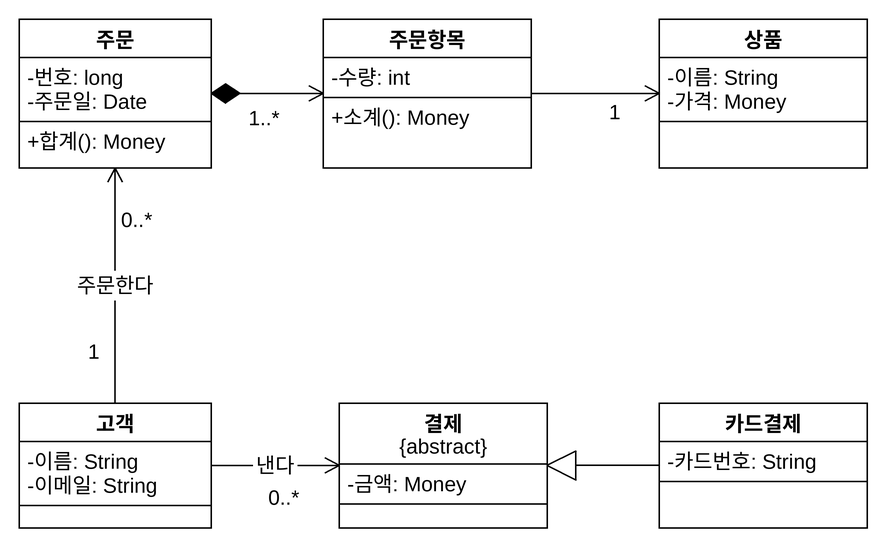
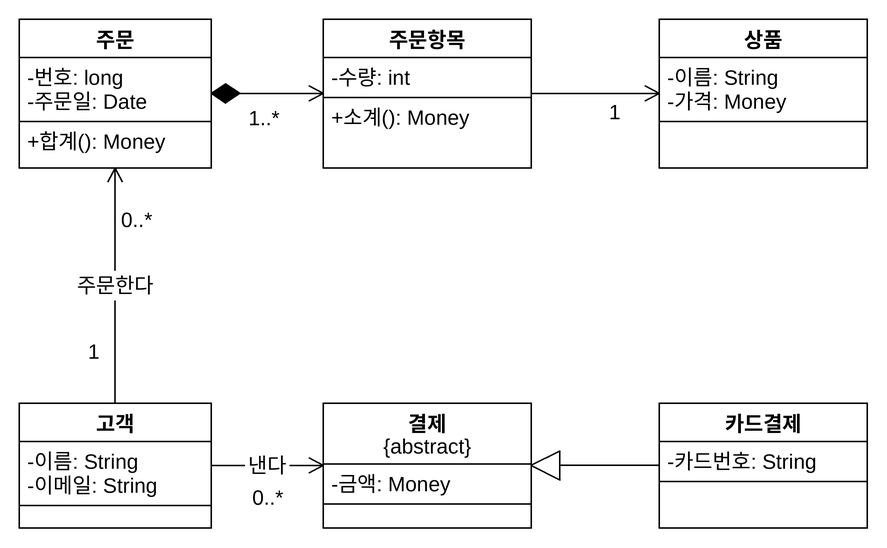
docs: README 소개를 AI가 놓는 배치 기준으로 고치고, 고친 배치의 열을 맞추기
소개의 '손으로 놓다 보면'은 AI가 자리를 정한다는 앞 문장과 어긋나 '어시스턴트가 자리를 직접 잡다 보면'으로 고치고, 불합격 조건에 상자끼리 겹침을 넣는다. 고친 배치는 결제를 주문항목과 같은 열(190)에 둔다. 테스트는 첫 배치에서 가려지는 선의 꺾는 점이 끝 상자–가린 상자 토막을 가장 길게 만들고 첫 점이 가린 상자 앞 변보다 앞에 있는지 보며, 결과와 입력을 짝지을 때 길이가 다르면 실패한다.

diff --git a/tests/test_server.py b/tests/test_server.py
@@ -1188,7 +1188,7 @@ def test_readme_examples_draw_pass_and_match_their_pictures(tmp_path, readme_ima
     examples = readme_images.readme_examples()  # 그림 스크립트는 영어 부분의 첫 ## 제목 뒤에서만 읽는다 — 그 밖에 둔 예시는 그리지 못한다
     assert sorted(b["file_name"] for _, b in examples) == everywhere == sorted(EXAMPLES)
     results = run(server.mcp, *[(tool, {**b, "out_dir": str(tmp_path)}) for tool, b in examples])[2]
-    for (tool, b), r in zip(examples, results):
+    for (tool, b), r in zip(examples, results, strict=True):
         assert tool == EXAMPLES[b["file_name"]], b["file_name"]
         assert not r.is_error and text(r).startswith("합격"), text(r)
         saved = readme_images.IMAGES / f"{b['file_name']}.cysuml.json"
@@ -1200,14 +1200,22 @@ def test_readme_examples_draw_pass_and_match_their_pictures(tmp_path, readme_ima
 def test_readme_before_after_pictures_fail_and_pass_as_the_readme_says(tmp_path, readme_images):
     korean = README.read_text(encoding="utf-8").split("\n## 한국어\n", 1)[1]
     calls = [(tool, {**args, "out_dir": str(tmp_path)}) for tool, args in readme_images.before_after()]
-    for (name, passes), (_, args), r in zip(readme_images.BEFORE_AFTER.items(), calls, run(server.mcp, *calls)[2]):
+    for (name, passes), (_, args), r in zip(readme_images.BEFORE_AFTER.items(), calls, run(server.mcp, *calls)[2], strict=True):
         assert not r.is_error and text(r).startswith("합격") == passes, (name, text(r))
         if not passes:
             assert text(r).startswith("불합격 — 1건"), (name, text(r))  # README가 "이 한 건으로"·"on exactly this"라고 적었다
             crossing = [re.sub(r"^\d+\. ", "", line) for line in text(r).splitlines() if "선이 상자를 지난다" in line]
             assert crossing, (name, text(r))
+            # 가려지는 선의 꺾는 점이 관계 이름 자리를 정한다(스크립트 머리말) — 이름은 가장 긴 토막 가운데에 앉으므로, 끝 상자에서 첫
+            # 꺾는 점(가린 상자의 앞 변)까지가 가장 길어야 한다. 이 선은 가로선이라 x만 견준다
             hidden = args["relations"][int(re.search(r"relations\[(\d+)\]", crossing[0]).group(1))]
-            assert hidden.get("via"), f"{name}: 가려지는 선의 꺾는 점이 관계 이름 자리를 정한다 — 지우면 이름이 가린 상자에 붙는다(스크립트 머리말)"
+            boxes = {c["name"]: c for c in args["classes"]}
+            start, end = boxes[hidden["from"]], boxes[hidden["to"]]
+            xs = [start["left"] + start["width"], *(x for x, _ in hidden.get("via", [])), end["left"]]
+            pieces = [b - a for a, b in zip(xs, xs[1:])]
+            assert len(pieces) > 1 and pieces[0] > max(pieces[1:]), f"{name}: 이름이 앉을 끝 상자–가린 상자 토막이 가장 길지 않다: {pieces}"
+            cover = boxes[re.search(r"상자 (\S+)\(", crossing[0]).group(1)]
+            assert xs[1] <= cover["left"], f"{name}: 첫 꺾는 점이 가린 상자 {cover['name']}의 앞 변보다 뒤에 있어 이름이 그 밑에 앉는다"
             if name.endswith("-ko"):  # 한국어 절은 이 항목을 그대로 옮겨 보여 준다
                 assert f"> {crossing[0]}" in korean, f"README 한국어 절이 옮긴 검사 결과가 지금 결과와 다르다: {crossing[0]}"
 

diff --git a/README.md b/README.md
@@ -6,9 +6,9 @@ An MCP server for document-ready UML diagrams: the AI lays them out, cysUML draw
 
 Auto-layout tools keep boxes apart, but they decide where everything goes: it is hard to get the arrangement you
 want, one more class can reshuffle the whole picture, and labels can still crowd the lines. cysUML takes the other way
-round: your AI assistant decides where every box goes, cysUML draws exactly that and checks the drawing. Placing boxes
-by hand can go wrong, so if a line runs through a box or a label, or labels overlap, the check fails and says what to
-move. The assistant fixes the layout and draws again until the check passes.
+round: your AI assistant decides where every box goes, cysUML draws exactly that and checks the drawing. An assistant
+placing boxes itself can get it wrong, so if boxes overlap, a line runs through a box or a label, or labels overlap,
+the check fails and says what to move. The assistant fixes the layout and draws again until the check passes.
 
 - Several kinds of UML diagram; the list is under [Use](#use). Sequence diagrams are laid out by cysUML from the order
   of participants and messages, and checked the same way.
@@ -421,8 +421,8 @@ AI가 배치하고 도구가 그리는, 문서용 UML 그림 MCP 서버다.
 
 자동 배치 도구는 상자끼리 겹치지 않게 놓아 주지만, 자리를 도구가 정한다. 원하는 모양으로 놓게 하기 어렵고, 클래스 하나만 더해도
 그림 전체가 뒤섞일 수 있고, 글자가 선에 붙어 어수선해지기도 한다. cysUML은 반대로 간다. AI 어시스턴트가 상자 자리를 정하면
-cysUML은 그대로 그리고 그림을 검사한다. 자리를 직접 잡다 보면 실수가 생기므로, 선이 상자나 글자를 지나거나 글자끼리 겹치면
-불합격이고 무엇을 옮길지 알려 준다. 어시스턴트는 배치를 고쳐 합격할 때까지 다시 그린다.
+cysUML은 그대로 그리고 그림을 검사한다. 어시스턴트가 자리를 직접 잡다 보면 실수가 생기므로, 상자끼리 겹치거나, 선이 상자나
+글자를 지나거나, 글자끼리 겹치면 불합격이고 무엇을 옮길지 알려 준다. 어시스턴트는 배치를 고쳐 합격할 때까지 다시 그린다.
 
 - 여러 UML 그림을 그린다(목록은 아래 [쓰기](#쓰기)). 교류도는 참여자·메시지 차례를 받아 cysUML이 배치하고, 똑같이 검사한다.
 - PNG로 낸다. 글꼴을 함께 넣어 어느 컴퓨터에서든 같은 그림이 나오고, 한글도 그린다.
